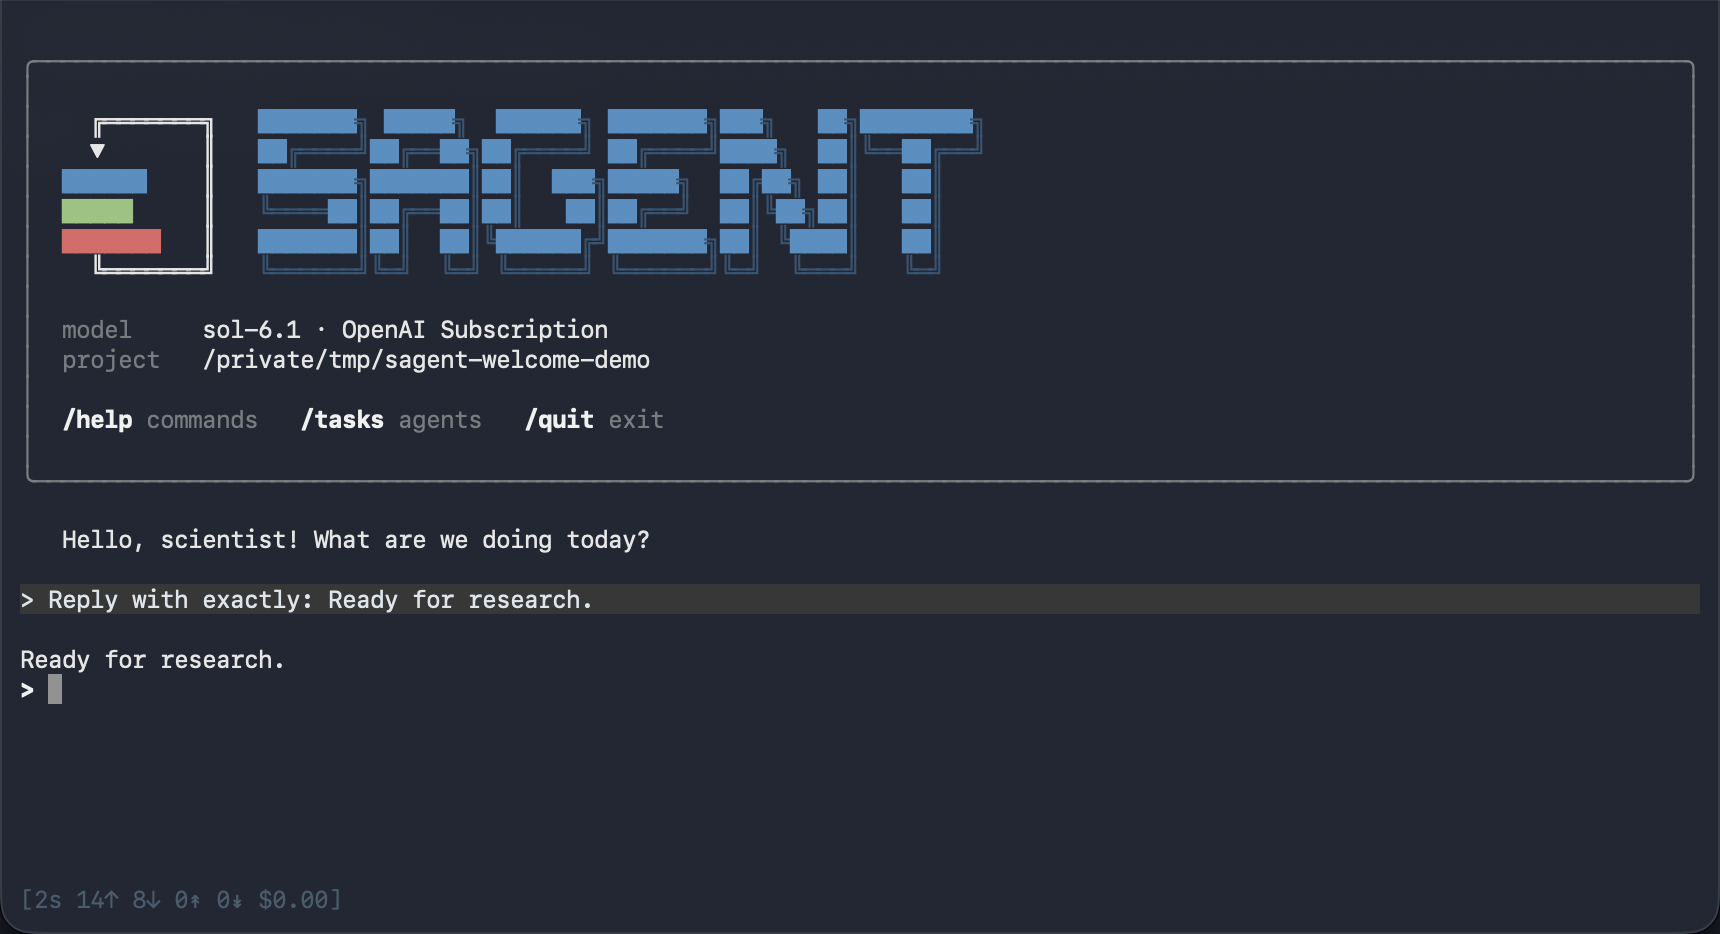
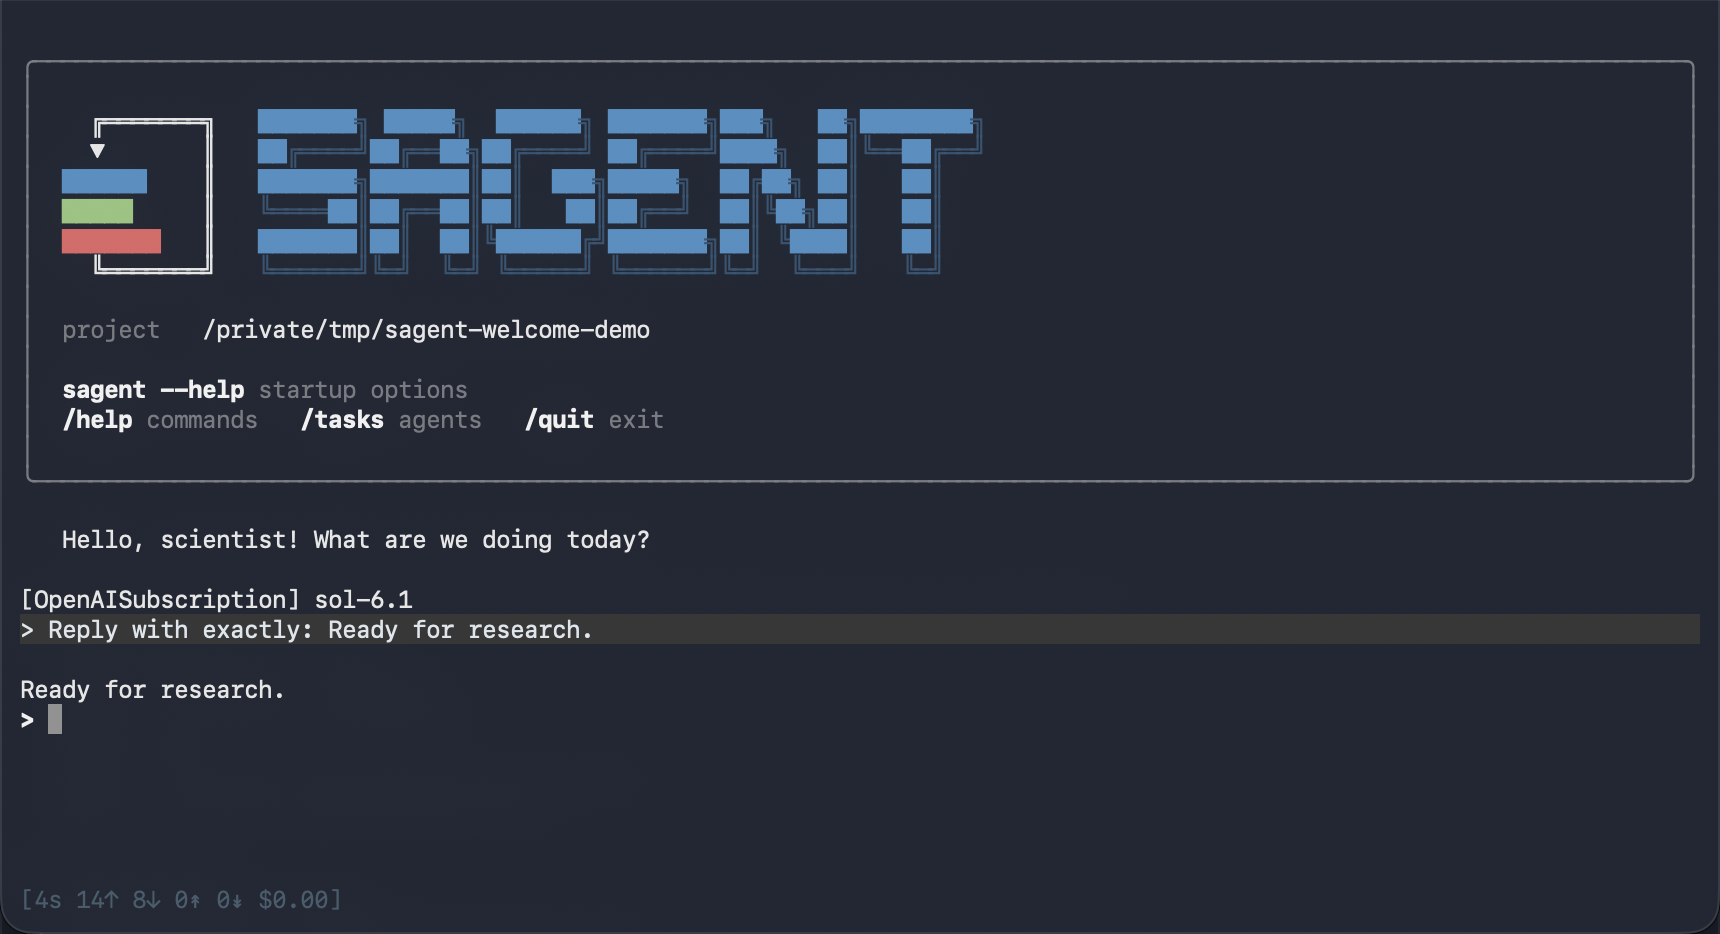
Refresh live CLI evidence for the simpler first-launch welcome

Changed region(s): [[0.0, 0.621, 0.339, 0.7762], [0.0308, 0.3415, 0.3698, 0.4347]]

diff --git a/docs/images/cli-welcome/README.md b/docs/images/cli-welcome/README.md
@@ -1,23 +1,28 @@
 # CLI welcome review evidence
 
-Captured on 2026-10-10 in native macOS Terminal, using the same dark profile,
-font, window geometry, working directory, provider, and model for both versions.
-These are actual CLI screenshots, not mockups or rendered transcript images.
-The capture region excludes the window title bar. No screenshot pixels were
-retouched. Static screenshots show the final state, not the animation.
+Native macOS Terminal captures from 2026-10-10. These are actual CLI output,
+not mockups or transcript renders. No pixels were retouched. Captures exclude
+the title bar. Static screenshots show the final state, not animation.
 
-| Image | Source revision | What it shows |
+| Image | Source revision | Behavior |
 | --- | --- | --- |
-| [Before](before.png) | `e58865992aa22a7766b8d62a19ff3654dbd31bfd` | Untouched upstream startup and input prompt. |
-| [After](after.png) | `aeaa1f281ab4867cb5933f44dbc054ed0dc4c1b3` | New welcome after the icon finishes its two laps. |
-| [Live response](after-response.png) | `aeaa1f281ab4867cb5933f44dbc054ed0dc4c1b3` | A real model response followed by the next input prompt. |
+| [Before](before.png) | `e58865992aa22a7766b8d62a19ff3654dbd31bfd` | Untouched upstream startup. |
+| [After](after.png) | `0fa1e402c085256c9e401ca9b80b3979ffbd62b7` | One welcome before provider configuration, then model line and prompt. |
+| [Live response](after-response.png) | `0fa1e402c085256c9e401ca9b80b3979ffbd62b7` | Actual model response and next prompt. |
+| [Missing credentials](first-run.png) | `0fa1e402c085256c9e401ca9b80b3979ffbd62b7` | Same welcome, followed by existing setup guidance. |
 
-## Reproduce the live check
+The configured before/after captures use the same dark profile, font, window
+size, provider, model, and clean working directory. Native capture region:
+`100,132,860,467`, producing 1720 by 934 pixels on the Retina display. The missing
+credentials capture uses a taller window and `100,132,860,647` to include the
+existing instructions and shell exit messages. Those shell messages are not
+part of the welcome.
 
-Use an authenticated provider and a separate checkout for each revision.
-Both checks used the same virtual environment and `PYTHONPATH` pointed to the
-respective checkout. The working directory was `/tmp/sagent-welcome-demo`
-(displayed as `/private/tmp/sagent-welcome-demo` on macOS).
+## Reproduce
+
+Use separate checkouts for the recorded revisions and point `PYTHONPATH` to the
+checkout being tested. Both used the same virtual environment, with the working
+directory `/tmp/sagent-welcome-demo` (shown as `/private/tmp/...` on macOS).
 
 ```bash
 python -m sagent.bin.cli \
@@ -27,42 +32,35 @@ python -m sagent.bin.cli \
   --history /tmp/sagent-welcome-review-history
 ```
 
-After startup, enter:
+Enter `Reply with exactly: Ready for research.`, then `/help`, then `/quit`.
+Both upstream and the feature branch returned the expected reply, displayed
+help, and exited. Tools were disabled. No research experiments ran.
 
-```text
-Reply with exactly: Ready for research.
-/help
-/quit
-```
-
-Both revisions returned `Ready for research.`, displayed the command list, and
-exited after `/quit`. Tools were disabled. No research experiments were run.
-Startup itself makes no model request; the typed prompt does.
-
-The native captures used the same screen region, `100,132,860,467`, producing
-1720 by 934 pixel images on the Retina display. Capture command:
-
-```bash
-screencapture -x -R100,132,860,467 after.png
-```
+For the missing-credentials capture, use `env -u ANTHROPIC_API_KEY` with the
+same command, replacing the provider with `Anthropic` and omitting `--model`.
+No fake keys are needed. The process exits with status 1 as before. This tests
+an explicit unconfigured provider, not a new operating-system account.
 
 ## Validation
 
-- Focused welcome, CLI, and REPL tests: **253 passed, 1 deselected**.
-- Five actual CLI PTY cases: animated 80 by 24, compact 40 by 24, short 80 by
-  18, `NO_COLOR=1`, and `SAGENT_NO_ANIMATION=1`. All exited with status 0 after
-  `/quit`, without making a model request.
-- Whole-repository Ruff lint/format, ty, basedpyright, import, and build passed.
-- Full branch suite: **7393 passed, 13 failed, 132 skipped, 121 deselected**.
-- Untouched upstream suite: **7343 passed, 17 failed, 132 skipped,
-  121 deselected**. All 13 branch failures also occurred upstream. They are in
-  `sagent/lib/files/grep_test.py` and `sagent/lib/worker_count_test.py`, which this
-  change does not modify. The full suite is not green on this host.
-- Whole-repository codespell reports the existing `crate` finding at
-  `pyproject.toml:73`. The changed files pass codespell.
+- Focused welcome, CLI, and REPL suite: **265 passed, 1 deselected**.
+- Five real CLI PTY cases: animated 80x24, compact 40x24, short 80x18, no color,
+  and animation disabled. All exited with status 0 after `/quit` only.
+- Missing-credential routing tests cover default selection, Anthropic, OpenAI,
+  Google, and AnthropicCLI, in interactive and piped modes. These tests stub
+  credential construction; they do not authenticate with those services.
+- Fresh and resumed session tests verify one welcome before provider creation.
+- Ruff lint/format, ty, basedpyright, import, build, and changed-file codespell
+  passed. Required checks ran manually; commits skipped Git hooks.
+- Full branch suite: **7405 passed, 13 failed, 132 skipped, 121 deselected**.
+  Untouched upstream: **7343 passed, 17 failed, 132 skipped, 121 deselected**.
+  All branch failures also occurred upstream, in unchanged grep and worker-count
+  tests. The full suite is not green on this host.
+- Whole-repository codespell has the existing `crate` finding in
+  `pyproject.toml:73`.
 
-The test environment was macOS arm64 with Python 3.14.6. Checks used
-`DEVELOPER_DIR=/Library/Developer/CommandLineTools` on this host. This evidence
-does not establish visual compatibility with every terminal or font. Automated
-tests cover narrow layouts, resumed sessions, non-Unicode terminals, redirected
-output, color opt-out, and cursor cleanup during interruption.
+Environment: macOS arm64, Python 3.14.6, with
+`DEVELOPER_DIR=/Library/Developer/CommandLineTools`. Native visual evidence is
+for this Terminal profile. It does not establish compatibility with every font
+or live authentication with every provider. The welcome itself makes no model
+request and does not assert that credentials are valid remotely.
